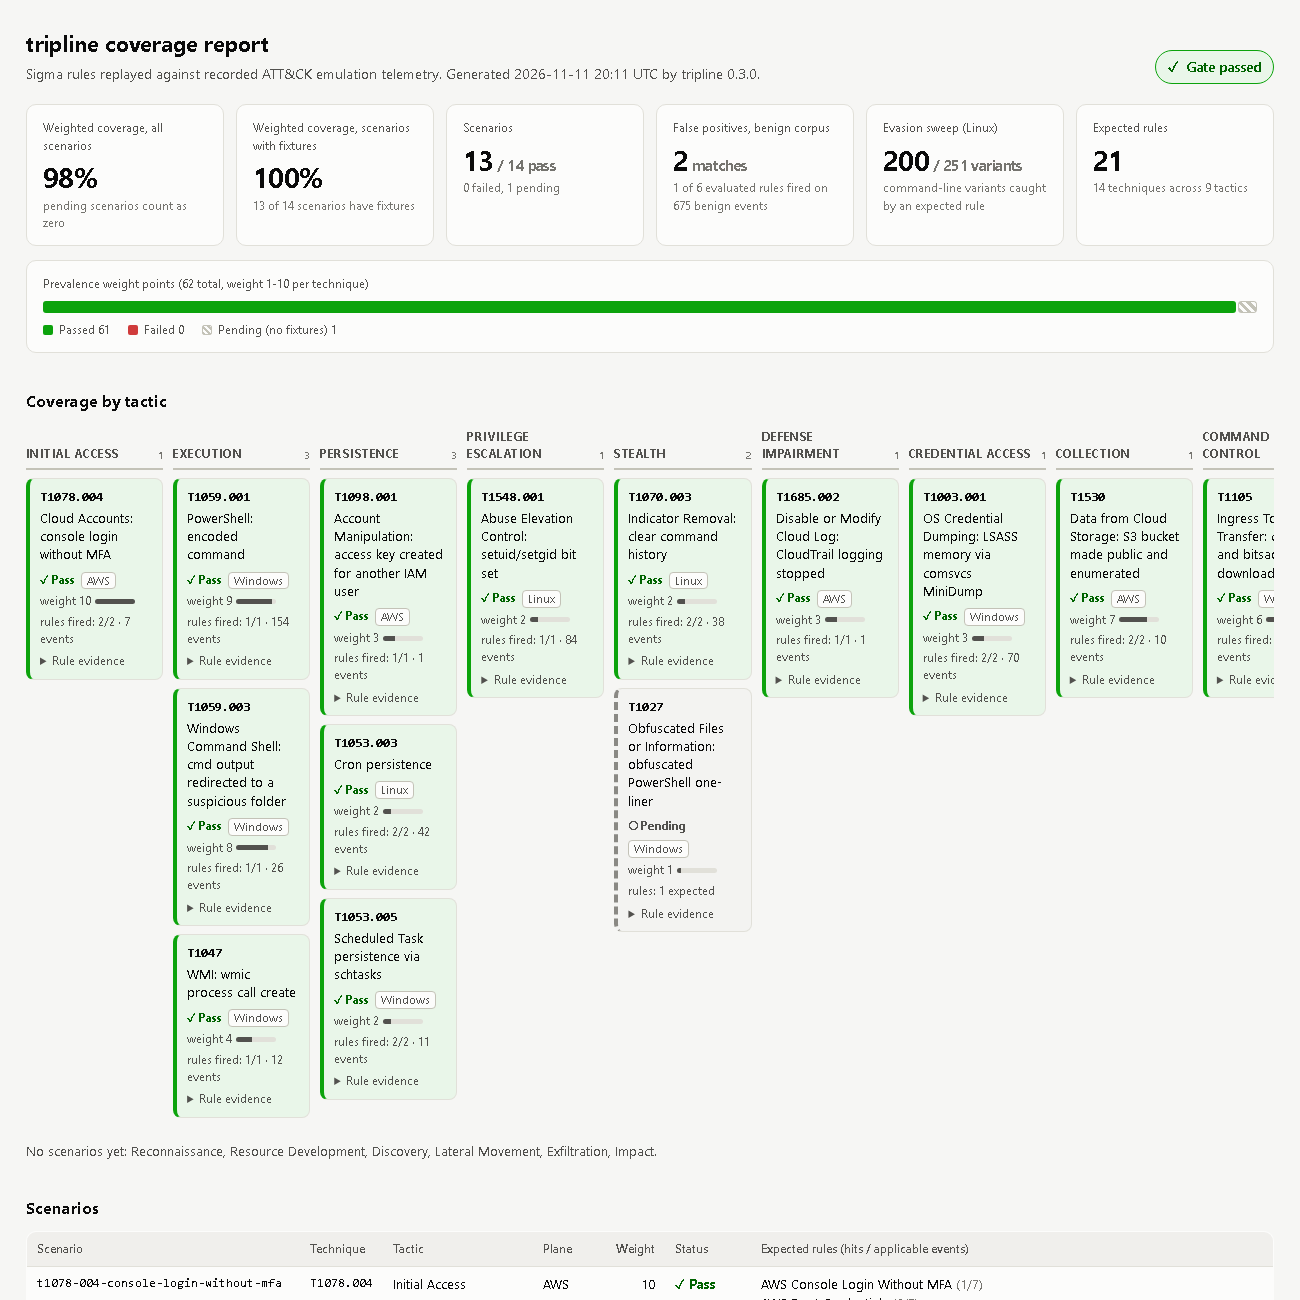
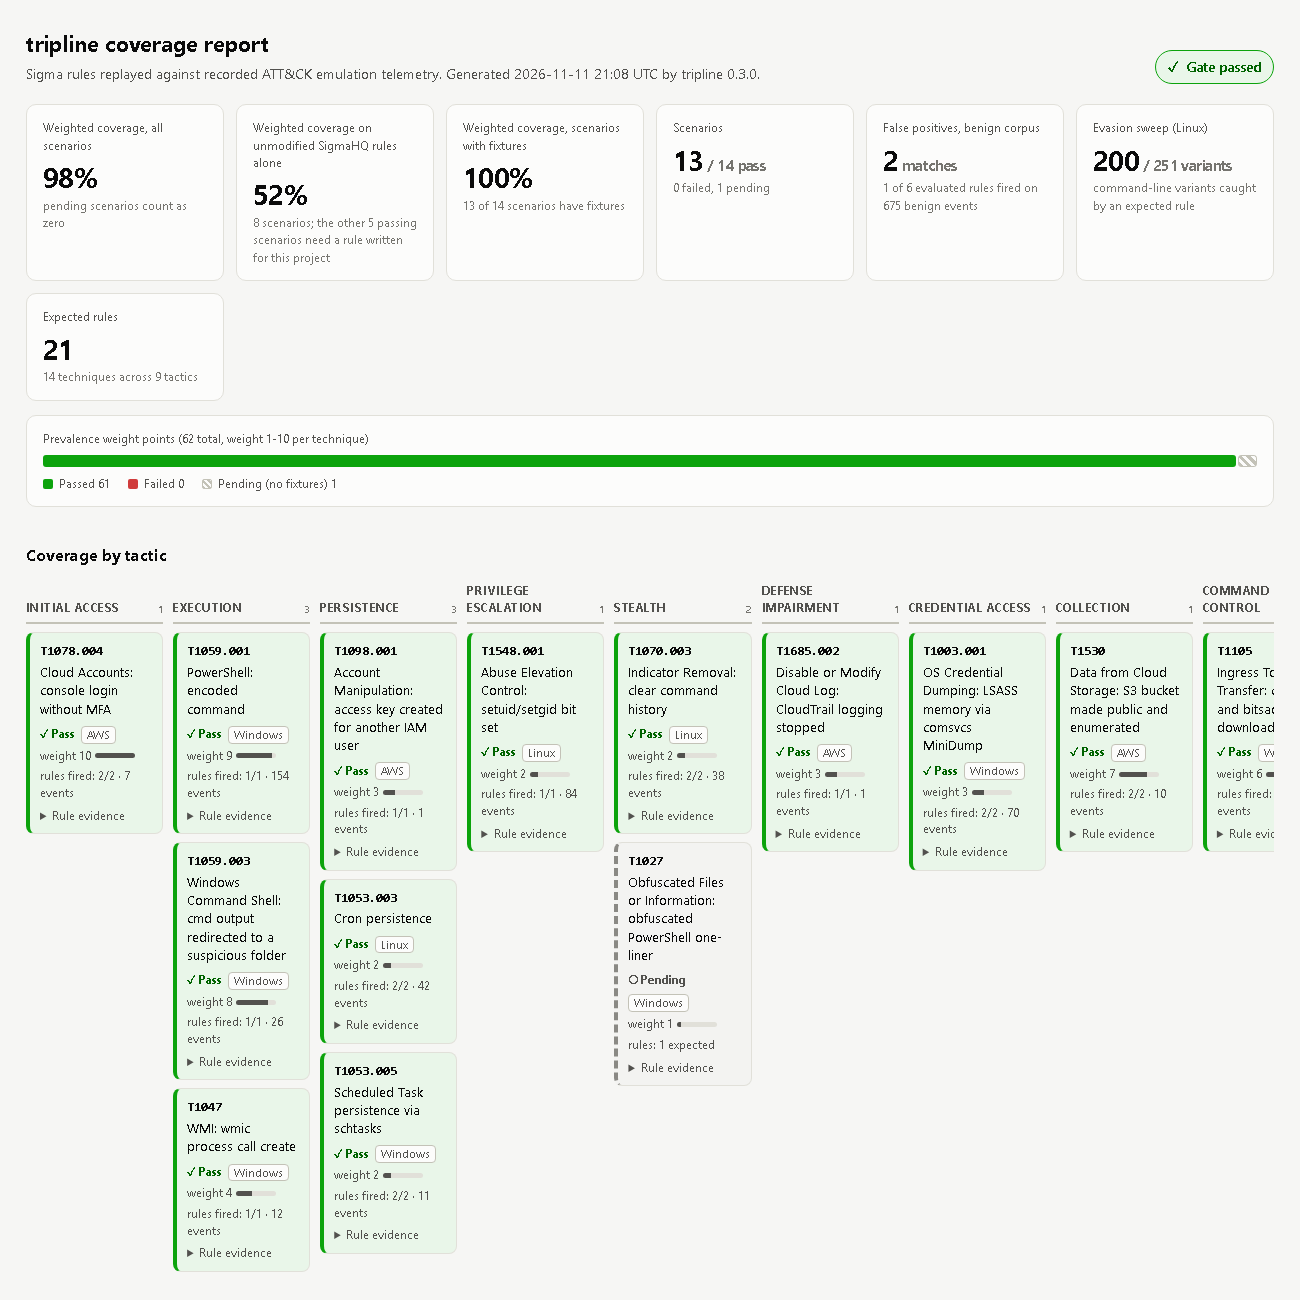
scorecard: split headline into vendored-only and authored-rule passes (52% vs 98%)

diff --git a/docs/report.html b/docs/report.html
@@ -123,7 +123,7 @@ footer { margin-top: 36px; color: var(--ink-3); font-size: 12px; }
   <div>
     <h1>tripline coverage report</h1>
     <p class="sub">Sigma rules replayed against recorded ATT&amp;CK emulation telemetry.
-      Generated 2026-11-11 20:16 UTC by tripline 0.3.0.</p>
+      Generated 2026-11-11 21:08 UTC by tripline 0.3.0.</p>
   </div>
   <span class="gate ok" role="status"><span aria-hidden="true">&#10003;</span> Gate passed</span>
 </header>
@@ -133,6 +133,11 @@ footer { margin-top: 36px; color: var(--ink-3); font-size: 12px; }
     <div class="k">Weighted coverage, all scenarios</div>
     <div class="v">98%</div>
     <div class="n">pending scenarios count as zero</div>
+  </div>
+  <div class="tile">
+    <div class="k">Weighted coverage on unmodified SigmaHQ rules alone</div>
+    <div class="v">52%</div>
+    <div class="n">8 scenarios; the other 5 passing scenarios need a rule written for this project</div>
   </div>
   <div class="tile">
     <div class="k">Weighted coverage, scenarios with fixtures</div>

diff --git a/tripline/scorer.py b/tripline/scorer.py
@@ -58,7 +58,7 @@ def build_scorecard(
     if missing:
         raise ValueError(f"no replay result for scenario(s): {', '.join(missing)}")
 
-    scenario_scores = [_score_scenario(s, by_id[s.id]) for s in scenarios]
+    scenario_scores = [_score_scenario(s, by_id[s.id], rules) for s in scenarios]
     rule_scores = _score_rules(scenarios, by_id, rules)
     technique_scores = _score_techniques(scenarios, scenario_scores)
     totals = _totals(scenario_scores, rule_scores)
@@ -166,7 +166,13 @@ def read_scorecard(path: Path) -> Scorecard:
 # --------------------------------------------------------------------------- internals
 
 
-def _score_scenario(scenario: Scenario, result: ReplayResult) -> ScenarioScore:
+def is_authored(compiled: CompiledRule | None) -> bool:
+    """True for rules written for this project: their ``author`` field names tripline."""
+    author = (compiled.rule.author or "") if compiled else ""
+    return "tripline" in author.lower()
+
+
+def _score_scenario(scenario: Scenario, result: ReplayResult, rules: RuleSet) -> ScenarioScore:
     fired = [h.rule_id for h in result.rules if h.fired]
     return ScenarioScore(
         scenario_id=scenario.id,
@@ -179,6 +185,7 @@ def _score_scenario(scenario: Scenario, result: ReplayResult) -> ScenarioScore:
         provenance=sorted({f.provenance for f in scenario.fixtures}),
         events=result.events,
         expected_rules=list(scenario.expected_rules),
+        needs_authored_rule=any(is_authored(rules.by_id(r)) for r in scenario.expected_rules),
         fired_rules=fired,
         missing_rules=[] if result.status is ScenarioStatus.PENDING else result.missing_rules,
         evidence=[
@@ -227,6 +234,7 @@ def _score_rules(
                 rule_id=rule_id,
                 title=compiled.title if compiled else "<rule not loaded>",
                 level=str(level.name).lower() if level else None,
+                authored=is_authored(compiled),
                 logsource=_logsource_text(compiled) if compiled else "",
                 techniques=list(compiled.techniques) if compiled else [],
                 expected_scenarios=[s.id for s in expecting[rule_id]],
@@ -287,6 +295,8 @@ def _totals(scenario_scores: list[ScenarioScore], rule_scores: list[RuleScore]) 
     scored = [
         (s.weight, value(s)) for s in scenario_scores if s.status is not ScenarioStatus.PENDING
     ]
+    passed = [s for s in scenario_scores if s.status is ScenarioStatus.PASSED]
+    vendored = [s for s in passed if not s.needs_authored_rule]
     return ScorecardTotals(
         scenarios=len(scenario_scores),
         passed=sum(1 for s in scenario_scores if s.status is ScenarioStatus.PASSED),
@@ -295,4 +305,10 @@ def _totals(scenario_scores: list[ScenarioScore], rule_scores: list[RuleScore]) 
         rules=len(rule_scores),
         weighted_coverage=weighted_coverage(everything) or 0.0,
         weighted_coverage_scored=weighted_coverage(scored),
+        passed_vendored_only=sum(1 for s in passed if not s.needs_authored_rule),
+        passed_needs_authored=sum(1 for s in passed if s.needs_authored_rule),
+        weighted_coverage_vendored=weighted_coverage(
+            [(s.weight, 1.0 if s in vendored else 0.0) for s in scenario_scores]
+        )
+        or 0.0,
     )

diff --git a/tests/test_cli.py b/tests/test_cli.py
@@ -212,3 +212,38 @@ def test_old_scorecards_without_new_sections_still_load(repo_root, tmp_path):
     card = read_scorecard(out)
     assert card.benign is None and card.robustness is None
     assert "False positives" not in scorecard_markdown(card)
+
+
+def test_provenance_split_matches_rule_authorship(repo_root, tmp_path):
+    """Vendored-only coverage is computed from each expected rule's author, not estimated."""
+    from tripline.engine.rules import load_rules
+    from tripline.scenarios import load_scenarios
+    from tripline.scorer import is_authored
+
+    out = tmp_path / "card.json"
+    runner.invoke(app, ["score", "--root", str(repo_root), "-o", str(out)])
+    card = read_scorecard(out)
+    rules = load_rules(repo_root / "rules" / "sigma")
+    scenarios = {s.id: s for s in load_scenarios(repo_root / "scenarios")}
+    authored = {r.id for r in rules.rules if is_authored(r)}
+    assert authored
+    vendored_weight = 0
+    for s in card.scenarios:
+        needs = any(r in authored for r in scenarios[s.scenario_id].expected_rules)
+        assert s.needs_authored_rule is needs
+        if s.status.value == "passed" and not needs:
+            vendored_weight += s.weight
+    total = sum(s.weight for s in card.scenarios)
+    t = card.totals
+    assert t.weighted_coverage_vendored == vendored_weight / total
+    assert (t.passed_vendored_only or 0) + (t.passed_needs_authored or 0) == t.passed
+    assert t.weighted_coverage_vendored <= t.weighted_coverage
+    text = scorecard_markdown(card)
+    assert "unmodified SigmaHQ rules alone" in text
+    assert "SigmaHQ rules alone" in render_html_for(card)
+
+
+def render_html_for(card):
+    from tripline.report import render_html
+
+    return render_html(card)

diff --git a/tripline/cli.py b/tripline/cli.py
@@ -24,6 +24,7 @@ from tripline.models import (
     Scenario,
     ScenarioStatus,
     Scorecard,
+    ScorecardTotals,
     describe_outcome,
 )
 from tripline.replay import replay_all, replay_scenario
@@ -486,6 +487,18 @@ def windows_collect(
 # --------------------------------------------------------------------------- rendering
 
 
+def provenance_sentence(t: ScorecardTotals) -> str:
+    """Plain split of the headline: vendored-only passes versus passes that need authored rules."""
+    if t.weighted_coverage_vendored is None or t.passed_vendored_only is None:
+        return ""
+    return (
+        f"**Rule provenance:** {t.weighted_coverage:.0%} of weight points have a passing scenario; "
+        f"{t.weighted_coverage_vendored:.0%} of weight points pass on unmodified SigmaHQ rules "
+        f"alone ({t.passed_vendored_only} scenarios); the other {t.passed_needs_authored} passing "
+        "scenarios need at least one rule written for this project."
+    )
+
+
 def scorecard_markdown(card: Scorecard, *, heading: bool = False) -> str:
     """Render the scorecard as GitHub-flavoured Markdown."""
     t = card.totals
@@ -501,6 +514,7 @@ def scorecard_markdown(card: Scorecard, *, heading: bool = False) -> str:
         f"of {t.scenarios} scenarios; {t.rules} expected rules.",
         f"**Prevalence-weighted coverage:** {t.weighted_coverage:.0%} of all scenarios, "
         f"{scored} of scenarios with fixtures.",
+        provenance_sentence(t),
         "",
         "| Scenario | Technique | Plane | Weight | Status | Rules fired | Events |",
         "|---|---|---|---|---|---|---|",

diff --git a/tripline/models.py b/tripline/models.py
@@ -246,6 +246,8 @@ class RuleScore(BaseModel):
     level: str | None
     logsource: str
     techniques: list[str]
+    authored: bool = False
+    """True when written for this project (author names tripline); False for vendored rules."""
     expected_scenarios: list[str]
     detected_scenarios: list[str]
     missed_scenarios: list[str]
@@ -286,6 +288,8 @@ class ScenarioScore(BaseModel):
     provenance: list[Provenance]
     events: int
     expected_rules: list[str]
+    needs_authored_rule: bool = False
+    """True when at least one expected rule was written for this project, not vendored."""
     fired_rules: list[str]
     missing_rules: list[str]
     evidence: list[RuleEvidence] = Field(default_factory=list)
@@ -324,6 +328,12 @@ class ScorecardTotals(BaseModel):
     weighted_coverage: float
     """sum(weight x coverage) / sum(weight) over every scenario (pending counts as 0)."""
     weighted_coverage_scored: float | None
+    passed_vendored_only: int | None = None
+    """Passing scenarios whose expected rules are all vendored SigmaHQ rules. Added in 0.3.0."""
+    passed_needs_authored: int | None = None
+    """Passing scenarios with at least one expected rule written for this project."""
+    weighted_coverage_vendored: float | None = None
+    """sum(weight of passing vendored-only scenarios) / sum(weight of all scenarios)."""
     """Same, restricted to scenarios that have fixtures. ``None`` if nothing is scored."""
 
 

diff --git a/tripline/heatmap.py b/tripline/heatmap.py
@@ -48,6 +48,12 @@ def build_layer(scorecard: Scorecard, *, name: str = "tripline coverage") -> dic
             if totals.weighted_coverage_scored is not None
             else "."
         )
+        + (
+            f" {totals.weighted_coverage_vendored:.0%} of weight points pass on unmodified "
+            "SigmaHQ rules alone; the rest need rules written for this project."
+            if totals.weighted_coverage_vendored is not None
+            else ""
+        )
     )
     return {
         "name": name,

diff --git a/README.md b/README.md
@@ -27,11 +27,11 @@ a production backend, it covers 14 techniques, and it is not a substitute for an
 |---|---|
 | Scenarios | 14 ATT&CK techniques: 4 AWS (public replay), 3 Linux, 7 Windows (recorded on runners) |
 | Gate today | 13 of 14 scenarios pass (AWS 4/4, Linux 3/3, Windows 6/7); 1 Windows scenario pending |
-| Weighted coverage | 98% of all 14 scenarios (61 of 62 weight points); 45 of the 62 points follow a published ranking, 17 are hand-assigned ([weights](docs/weights.md)) |
+| Weighted coverage | 98% of weight points have a passing scenario (61 of 62); **52% of weight points (32 of 62, 8 scenarios) pass on unmodified SigmaHQ rules alone**, the other 5 passing scenarios (29 points) need at least one rule written for this project. 45 of the 62 points follow a published ranking, 17 are hand-assigned ([weights](docs/weights.md)) |
 | False positives | 2 matches from 1 of 6 evaluated rules on a 675-event benign Linux corpus; 20 of 26 rules not evaluated ([benign corpus](docs/benign-corpus.md)) |
 | Evasion sweep | 200 of 251 command-line variants of the three Linux attacks caught by an expected rule ([robustness](docs/robustness.md)) |
 | Gaps found | SigmaHQ *Setuid and Setgid* matched 0 of 36 Atomic events ([F-001](docs/findings.md)); 3 Windows rules that miss their Atomic tests ([F-003](docs/findings.md)) |
-| Code | 211 tests, 91% coverage, ruff and mypy strict clean, ATT&CK v20 ([version notes](docs/attack-version.md)) |
+| Code | 212 tests, 91% coverage, ruff and mypy strict clean, ATT&CK v20 ([version notes](docs/attack-version.md)) |
 
 [![tripline coverage report](docs/img/report.png)](docs/report.html)
 
@@ -80,8 +80,11 @@ All figures were produced by the commands in [Quick start](#quick-start) on 2026
 | Linux | auditd (execve + cron watches) | **3 / 3** | **Recorded** with Atomic Red Team on a GitHub-hosted `ubuntu-latest` runner |
 | Windows | Sysmon / Security / PowerShell | **6 / 7** (1 pending) | **Recorded** with Atomic Red Team on a GitHub-hosted `windows-latest` runner: T1003.001, T1047, T1105 from [run 42917025570](https://github.com/samiali38183/tripline/actions/runs/42917025570); T1059.001, T1059.003, T1053.005 from [run 43090565998](https://github.com/samiali38183/tripline/actions/runs/43090565998) |
 
-- **Prevalence-weighted coverage: 98% of all 14 scenarios, 100% of the scenarios that have
-  fixtures** (61 of 62 weight points; the pending scenario counts as zero). Two of the Windows
+- **Prevalence-weighted coverage: 98% of weight points have a passing scenario (61 of 62; the
+  pending scenario counts as zero), but only 52% (32 of 62) pass on unmodified SigmaHQ rules alone.**
+  Eight scenarios pass on vendored rules only; five need a rule written here: the custom AWS
+  rules (T1078.004, T1530), the setuid replacement (T1548.001) and the two Windows replacements
+  (T1059.003, T1053.005). `tripline score` computes the split from each expected rule's author field. Two of the Windows
   passes rest on tripline replacement rules and one on a narrowed scenario, not on the vendored
   SigmaHQ rule: see [F-003](docs/findings.md).
 - `tripline replay --all`: 13 passed, 0 failed, 1 pending; 26 rules compiled, 21 expected rules.
@@ -91,7 +94,7 @@ All figures were produced by the commands in [Quick start](#quick-start) on 2026
 - **Evasion sweep:** for the three Linux scenarios, 200 of 251 command-line variants are caught by
   at least one expected rule (setuid 106/108, history clearing 71/103, cron 23/40); alternative
   tools 0 of 4. The variant lists are hand-written and not exhaustive.
-- Test suite: **211 tests, 91% coverage**. `ruff format`, `ruff check`, `mypy` (strict),
+- Test suite: **212 tests, 91% coverage**. `ruff format`, `ruff check`, `mypy` (strict),
   `sigma check rules/` (0 issues), `actionlint` and `zizmor` are clean.
 - The scorecard also exports an ATT&CK Navigator layer (layer format 4.5, ATT&CK v20):
   [`docs/navigator_layer.json`](docs/navigator_layer.json), plus
@@ -343,6 +346,7 @@ Stated plainly so the numbers are read correctly (full text in
 - **Small, project-chosen coverage.** 14 techniques; ATT&CK Enterprise has 600+ (sub-)techniques.
   The 98% is progress against this repo's own scenario list weighted by prevalence, not a claim
   about any organisation's coverage. Seven of the weights are hand-assigned.
+  Only 52% of weight points pass on unmodified SigmaHQ rules alone; the rest need rules written here.
 - **Three of the six Windows passes are conditional.** T1059.003 and T1053.005 pass on tripline
   replacement rules written for the gaps F-003 found (the vendored rules matched 0 events on
   the same recordings), and T1059.001 passes on its encoded-command half only (the download-cradle
@@ -382,7 +386,7 @@ rules/sigma/      Sigma rules by plane (vendored SigmaHQ + tripline_*), DRL 1.1 
 fixtures/         recorded NDJSON telemetry + manifest.json (aws, linux, windows, benign)
 tripline/         CLI, compiler, router, replay, scorer, heatmap, collectors
 scripts/windows/  winlog NDJSON exporter used by the Windows workflow
-tests/            211 tests
+tests/            212 tests
 docs/             findings, limitations, threat model, gate proof, committed scorecard, layer,
                   HTML report, badge
 .github/workflows ci.yml (lint/types/tests + gate), pages.yml (HTML report to Pages),

diff --git a/docs/limitations.md b/docs/limitations.md
@@ -25,6 +25,10 @@ is a recall check on a known-good recording. It says nothing about:
   Canary's published 2026 top 10 the weight is 11 minus the rank, and the other seven weights
   are hand-assigned low values with no source ([`weights.md`](weights.md)). They are a proxy for
   prevalence in one vendor's customer base, not a measurement of this environment.
+* The headline blends rule provenance: a scenario that passes only because of a rule written for
+  this project counts the same as one that passes on an unmodified SigmaHQ rule. The scorecard
+  reports both: 52% of weight points (8 scenarios) pass on vendored rules alone, 98% including
+  rules authored here.
 * "Weighted coverage of all scenarios" treats *pending* scenarios as 0 - it is a progress metric
   for this repository, not a claim about an organisation's coverage.
 * 14 scenarios cover 14 techniques. ATT&CK Enterprise has over 600 (sub-)techniques; the heatmap

diff --git a/docs/scorecard.md b/docs/scorecard.md
@@ -2,6 +2,7 @@
 
 **Gate:** passed - 13 passed, 0 failed, 1 pending of 14 scenarios; 21 expected rules.
 **Prevalence-weighted coverage:** 98% of all scenarios, 100% of scenarios with fixtures.
+**Rule provenance:** 98% of weight points have a passing scenario; 52% of weight points pass on unmodified SigmaHQ rules alone (8 scenarios); the other 5 passing scenarios need at least one rule written for this project.
 
 | Scenario | Technique | Plane | Weight | Status | Rules fired | Events |
 |---|---|---|---|---|---|---|
@@ -30,4 +31,4 @@
 - t1070-003-clear-command-history: History File Deletion: 34/103 command-line variants
 - t1548-001-setuid-setgid: Setuid or Setgid Bit Set via Chmod (Any Mode Form): 106/108 command-line variants
 
-_tripline 0.3.0, generated 2026-11-11 20:16 UTC_
+_tripline 0.3.0, generated 2026-11-11 21:08 UTC_

diff --git a/CHANGELOG.md b/CHANGELOG.md
@@ -49,6 +49,12 @@ and evasion measurements. Every number below comes from a command run on this co
   (expected rule 0 of 15 events). Gate: 13 passed, 0 failed, 1 pending; weighted coverage 68% to 98%
   (42 to 61 of 62 points). Details in F-003.
 
+### Rule provenance split
+* Scorecard totals now report `passed_vendored_only`, `passed_needs_authored` and
+  `weighted_coverage_vendored`, computed from each expected rule's author field: 8 passing scenarios
+  (32 of 62 weight points, 52%) rely on unmodified SigmaHQ rules only; 5 passing scenarios (29
+  points) need a rule written for this project. Shown in the Markdown, HTML report and README.
+
 ### Other
 * Tests 186 to 211, coverage 89% to 91%. Version 0.3.0.
 
